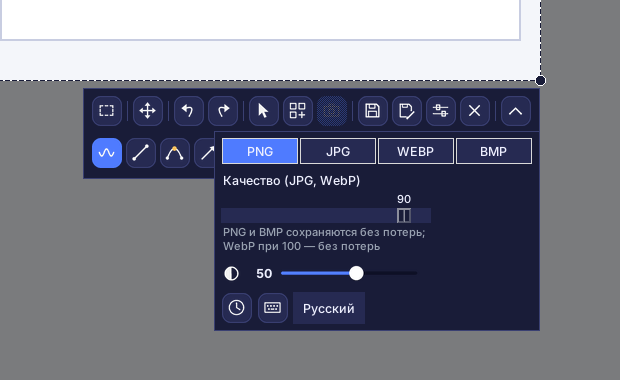
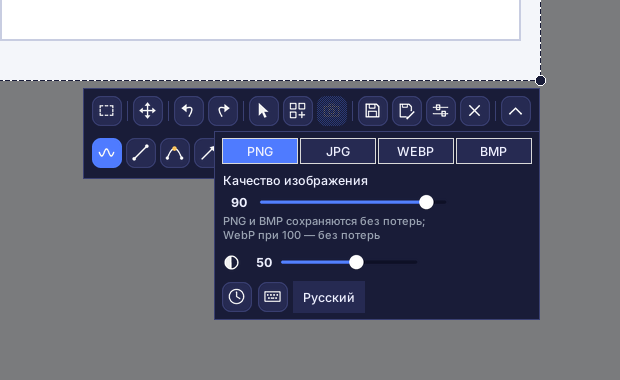
v5.4: настоящая полупрозрачность в живом режиме, слайдер качества
Claude-Session: https://claude.ai/code/session_01RAVXiQoasdZkjwnjuxJ1dB

Changed region(s): [[0.3371, 0.4921, 0.8887, 0.8684], [0.4597, 0.4632, 0.6129, 0.4921]]

diff --git a/screenshoter.py b/screenshoter.py
@@ -71,7 +71,7 @@ def set_lang(code):
 
 
 APP_ID = "Screenshoter"
-VERSION = "5.3"
+VERSION = "5.4"
 
 # ----------------------------------------------------------------- оформление
 BG = "#191c38"        # панель
@@ -1459,6 +1459,8 @@ class Overlay:
         self.vx, self.vy = vx, vy
         self.dim = None
         self.dim_hwnd = None
+        self.shp = None
+        self.shp_hwnd = None
         self.catch = None
         self.catch_hwnd = None
         self._catch_key = None
@@ -1581,6 +1583,7 @@ class Overlay:
                   round=self.round, ratio=self.ratio_label, cursor=self.show_cursor or
                   (self.cursor is None and st.get("cursor", True)))
         self._kill_catch()
+        self._kill_shapes_win()
         self._kill_dim()
         try:
             self.win.destroy()
@@ -1823,12 +1826,16 @@ class Overlay:
                           command=lambda x=f: self.set_fmt(x))
             b.pack(side="left", padx=1)
             self._fmt_btns[f] = b
-        tk.Label(fr, text=tr("Качество (JPG, WebP)"), bg=BG, fg=FG, font=("Segoe UI", 9)).pack(anchor="w", pady=(6, 0))
+        tk.Label(fr, text=tr("Качество изображения"), bg=BG, fg=FG, font=("Segoe UI", 9)).pack(anchor="w", pady=(6, 0))
+        qrow = tk.Frame(fr, bg=BG)
+        qrow.pack(anchor="w", pady=(2, 0))
         self._q_var = tk.IntVar(value=int(st.get("quality", 90)))
-        sc = tk.Scale(fr, from_=1, to=100, orient="horizontal", variable=self._q_var, length=210,
-                      bg=BG, fg=FG, troughcolor=BG2, highlightthickness=0, bd=0, sliderlength=14,
-                      font=("Segoe UI", 8), command=lambda v: self.set_quality(int(float(v))))
-        sc.pack(anchor="w")
+        qnum = tk.Label(qrow, width=3, anchor="e", bg=BG, fg=FG, font=("Segoe UI", 9, "bold"))
+        qnum.pack(side="left")
+        self._q_var.trace_add("write", lambda *a: qnum.configure(text=str(self._q_var.get())))
+        qnum.configure(text=str(self._q_var.get()))
+        qs = FlatSlider(qrow, 1, 100, self._q_var, lambda v: self.set_quality(int(float(v))), length=200)
+        qs.pack(side="left", padx=(4, 0))
         tk.Label(fr, text=tr("PNG и BMP сохраняются без потерь;\nWebP при 100 — без потерь"), bg=BG, fg="#9aa3b2",
                  font=("Segoe UI", 8), justify="left").pack(anchor="w")
         drow = tk.Frame(fr, bg=BG)
@@ -2598,9 +2605,12 @@ class Overlay:
             bx1 = min(self.W, int(max(b[2] for b in bb)) + 1); by1 = min(self.H, int(max(b[3] for b in bb)) + 1)
             if bx1 > bx0 and by1 > by0:
                 lay = shapes_layer(self.shapes, bx0, by0, bx1 - bx0, by1 - by0, 2)
-                self._shape_photo = ImageTk.PhotoImage(lay, master=self.win)
-                self.canvas.create_image(bx0, by0, anchor="nw", image=self._shape_photo, tags="shape")
+                if not (self.live and self.affinity and self._show_shapes_win(lay, bx0, by0)):
+                    self._kill_shapes_win()
+                    self._shape_photo = ImageTk.PhotoImage(lay, master=self.win)
+                    self.canvas.create_image(bx0, by0, anchor="nw", image=self._shape_photo, tags="shape")
         else:
+            self._kill_shapes_win()
             for sh in self.shapes:
                 self.draw_shape_tk(sh, "shape")
         self._order()
@@ -2892,6 +2902,92 @@ class Overlay:
         except Exception:
             pass
 
+    def _show_shapes_win(self, lay, bx0, by0):
+        """Живой режим: окно редактора прозрачно по «ключевому цвету», а он не умеет полупрозрачность.
+        Полупрозрачные фигуры показываем отдельным окном с настоящей попиксельной прозрачностью
+        (оно под панелью, пропускает клики и не попадает в снимки)."""
+        try:
+            u, g = ctypes.windll.user32, ctypes.windll.gdi32
+            if self.shp is None:
+                d = self.shp = tk.Toplevel(self.app.root)
+                d.withdraw()
+                d.overrideredirect(True)
+                d.geometry(f"1x1+{self.vx}+{self.vy}")
+                d.attributes("-topmost", True)
+                d.update_idletasks()
+                h = self.shp_hwnd = u.GetAncestor(d.winfo_id(), 2)
+                u.SetWindowLongW(h, -20, u.GetWindowLongW(h, -20) | 0x80000 | 0x20 | 0x80 | 0x08000000)
+                u.SetWindowDisplayAffinity(h, 0x11)
+                d.deiconify()
+                d.update()
+                main = u.GetAncestor(self.win.winfo_id(), 2)
+                u.SetWindowPos(h, main, 0, 0, 0, 0, 0x0001 | 0x0002 | 0x0010 | 0x0040)   # сразу под окном редактора
+            w, h_ = lay.size
+            r, gg, b, a = lay.convert("RGBa").split()                       # предумноженная прозрачность
+            data = Image.merge("RGBA", (b, gg, r, a)).tobytes()
+            from ctypes import wintypes
+
+            class BIH(ctypes.Structure):
+                _fields_ = [("biSize", wintypes.DWORD), ("biWidth", wintypes.LONG), ("biHeight", wintypes.LONG),
+                            ("biPlanes", wintypes.WORD), ("biBitCount", wintypes.WORD),
+                            ("biCompression", wintypes.DWORD), ("biSizeImage", wintypes.DWORD),
+                            ("biX", wintypes.LONG), ("biY", wintypes.LONG), ("biUsed", wintypes.DWORD),
+                            ("biImp", wintypes.DWORD)]
+
+            class BF(ctypes.Structure):
+                _fields_ = [("Op", ctypes.c_ubyte), ("Fl", ctypes.c_ubyte), ("Sca", ctypes.c_ubyte),
+                            ("Fmt", ctypes.c_ubyte)]
+            g.CreateDIBSection.restype = ctypes.c_void_p
+            g.CreateDIBSection.argtypes = [ctypes.c_void_p, ctypes.c_void_p, wintypes.UINT,
+                                           ctypes.POINTER(ctypes.c_void_p), ctypes.c_void_p, wintypes.DWORD]
+            g.CreateCompatibleDC.restype = ctypes.c_void_p
+            g.CreateCompatibleDC.argtypes = [ctypes.c_void_p]
+            g.SelectObject.restype = ctypes.c_void_p
+            g.SelectObject.argtypes = [ctypes.c_void_p, ctypes.c_void_p]
+            g.DeleteObject.argtypes = [ctypes.c_void_p]
+            g.DeleteDC.argtypes = [ctypes.c_void_p]
+            u.GetDC.restype = ctypes.c_void_p
+            u.GetDC.argtypes = [ctypes.c_void_p]
+            u.ReleaseDC.argtypes = [ctypes.c_void_p, ctypes.c_void_p]
+            u.UpdateLayeredWindow.argtypes = [ctypes.c_void_p, ctypes.c_void_p, ctypes.POINTER(wintypes.POINT),
+                                              ctypes.POINTER(wintypes.SIZE), ctypes.c_void_p,
+                                              ctypes.POINTER(wintypes.POINT), wintypes.COLORREF,
+                                              ctypes.POINTER(BF), wintypes.DWORD]
+            hdc = u.GetDC(None)
+            mem = g.CreateCompatibleDC(hdc)
+            bih = BIH(40, w, -h_, 1, 32, 0, 0, 0, 0, 0, 0)
+            bits = ctypes.c_void_p()
+            bmp = g.CreateDIBSection(hdc, ctypes.byref(bih), 0, ctypes.byref(bits), None, 0)
+            ok = False
+            if bmp and bits.value:
+                ctypes.memmove(bits.value, data, len(data))
+                old = g.SelectObject(mem, bmp)
+                dst = wintypes.POINT(self.vx + bx0, self.vy + by0)
+                size = wintypes.SIZE(w, h_)
+                src = wintypes.POINT(0, 0)
+                ok = bool(u.UpdateLayeredWindow(self.shp_hwnd, hdc, ctypes.byref(dst), ctypes.byref(size), mem,
+                                                ctypes.byref(src), 0, ctypes.byref(BF(0, 0, 255, 1)), 2))
+                g.SelectObject(mem, old)
+            if bmp:
+                g.DeleteObject(bmp)
+            g.DeleteDC(mem)
+            u.ReleaseDC(None, hdc)
+            if not ok:
+                self._kill_shapes_win()
+            return ok
+        except Exception:
+            self._kill_shapes_win()
+            return False
+
+    def _kill_shapes_win(self):
+        if self.shp is not None:
+            try:
+                self.shp.destroy()
+            except tk.TclError:
+                pass
+        self.shp = None
+        self.shp_hwnd = None
+
     def _make_catch(self):
         """Почти невидимое окно над рамкой ловит мышь, пока выбран инструмент рисования
         (сам режим коллажа пропускает клики сквозь рамку)."""
@@ -3001,6 +3097,7 @@ class Overlay:
             c.itemconfigure("bg", state="normal")
             c.itemconfigure("shape", state="normal")
             self.win.update_idletasks()
+            self._kill_shapes_win()
             self._kill_dim()                                # затемнение убираем, когда снимок уже на месте
 
     def live_snap(self):

diff --git a/i18n_data.py b/i18n_data.py
@@ -401,14 +401,14 @@ TRANSLATIONS = {
         "zh": "关闭",
         "ja": "閉じる",
     },
-    "Качество (JPG, WebP)": {
-        "en": "Quality (JPG, WebP)",
-        "es": "Calidad (JPG, WebP)",
-        "de": "Qualität (JPG, WebP)",
-        "fr": "Qualité (JPG, WebP)",
-        "pt": "Qualidade (JPG, WebP)",
-        "zh": "质量 (JPG, WebP)",
-        "ja": "画質 (JPG, WebP)",
+        "Качество изображения": {
+        "en": "Image quality",
+        "es": "Calidad de imagen",
+        "de": "Bildqualität",
+        "fr": "Qualité de l'image",
+        "pt": "Qualidade da imagem",
+        "zh": "图像质量",
+        "ja": "画質",
     },
     "PNG и BMP сохраняются без потерь;\nWebP при 100 — без потерь": {
         "en": "PNG and BMP are saved losslessly;\nWebP at 100 is lossless",
